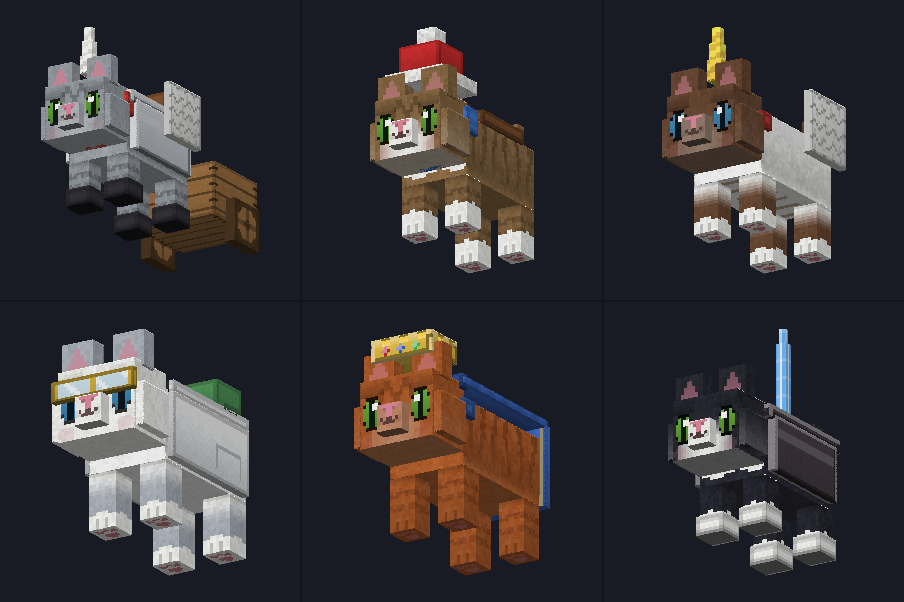
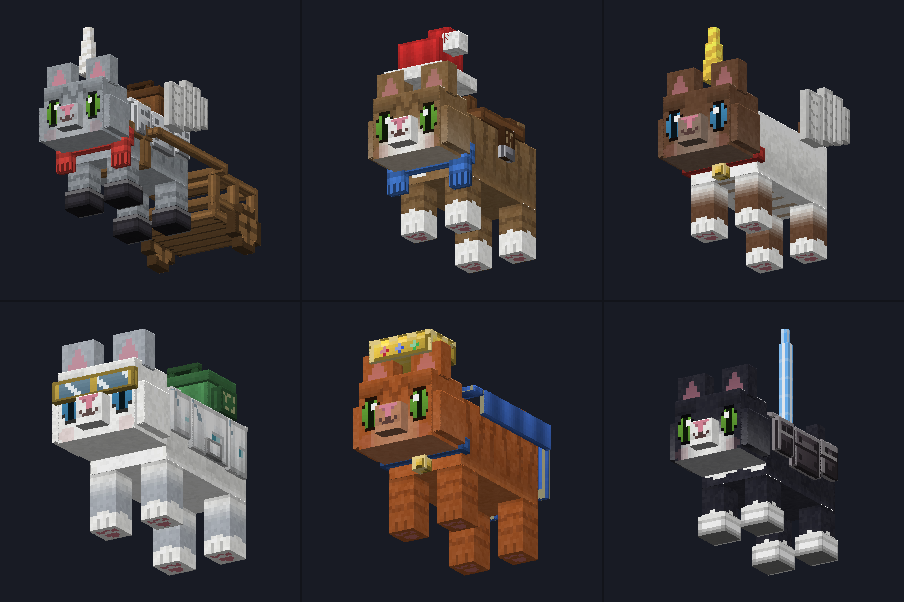
Align holiday hats on cat heads

diff --git a/build_accessories.py b/build_accessories.py
@@ -278,7 +278,7 @@ ACC = {
    uv={1:(176,30),2:(216,30)},
    colors={1:("svart",(38,34,44)),2:("lila",(96,56,140))},
    names={1:"Black",2:"Purple"},
-   cubes=[([-3, 11.5, -8.5], [6, 0.8, 6], (0, 0)), ([-1.8, 12.3, -7.3], [3.6, 2.2, 3.6], (0, 0)), ([-0.8, 14.5, -6.4], [2, 1.5, 2], (0, 0)), ([0.2, 16, -6.1], [1.4, 0.8, 1.4], (0, 0))],
+   cubes=[([-3, 10.9, -8.5], [6, 0.8, 6], (0, 0)), ([-1.8, 11.7, -7.3], [3.6, 2.2, 3.6], (0, 0)), ([-0.8, 13.9, -6.4], [2, 1.5, 2], (0, 0)), ([0.2, 15.4, -6.1], [1.4, 0.8, 1.4], (0, 0))],
    recipe=lambda mat: dict(pattern=[" W ","WWW"],
        key={"W":{"item":mat}},
        unlock=[{"item":mat}]),
@@ -288,7 +288,7 @@ ACC = {
    uv={1:(176,60),2:(216,60)},
    colors={1:("rod",(196,44,44)),2:("gron",(46,128,62))},
    names={1:"Red",2:"Green"},
-   cubes=[([-2.6, 11.4, -8.1], [5.2, 1, 5.2], (0, 0)), ([-1.8, 12.4, -7.3], [3.6, 2.4, 3.6], (0, 0)), ([0.5, 14.5, -6.6], [1.8, 1.2, 1.8], (0, 0)), ([1.8, 13.8, -6.6], [1.4, 1.4, 1.4], (0, 0))],
+   cubes=[([-2.6, 10.8, -8.1], [5.2, 1, 5.2], (0, 0)), ([-1.8, 11.8, -7.3], [3.6, 2.4, 3.6], (0, 0)), ([0.5, 13.9, -6.6], [1.8, 1.2, 1.8], (0, 0)), ([1.8, 13.2, -6.6], [1.4, 1.4, 1.4], (0, 0))],
    recipe=lambda mat: dict(pattern=[" S ","WWW"],
        key={"W":{"item":mat},"S":{"item":"minecraft:snowball"}},
        unlock=[{"item":mat}]),

diff --git a/tools/promo/make_video.py b/tools/promo/make_video.py
@@ -275,7 +275,7 @@ def make_frame(job):
     if kind == "trio":
         _, i, n = job
         img = trio_ruta(i / FPS, 20 + i * 0.35)
-        text(img, "SIX CATS . TWENTY OUTFITS", W // 2, H - 30, 2)
+        text(img, "SIX CATS . TWENTY-FOUR OUTFITS", W // 2, H - 30, 1)
         return fade(watermark(img), i, n)
     if kind == "cat":
         _, ci, i, n = job
@@ -311,7 +311,7 @@ def make_frame(job):
         text(img, "PURRFECT COMPANIONS", W // 2, 60, 3)
         text(img, "CURSEFORGE . MCPEDL", W // 2, 130, 2)
         text(img, "PURRFECT.PELLEOPS.SE", W // 2, 165, 2)
-        text(img, "TAME . RIDE . BREED . DRESS UP", W // 2, 215, 1)
+        text(img, "TAME . RIDE . PLAY . SPA . TV . DRESS UP", W // 2, 215, 1)
         return fade(img, i, n, edge=15)
     raise ValueError(kind)
 
